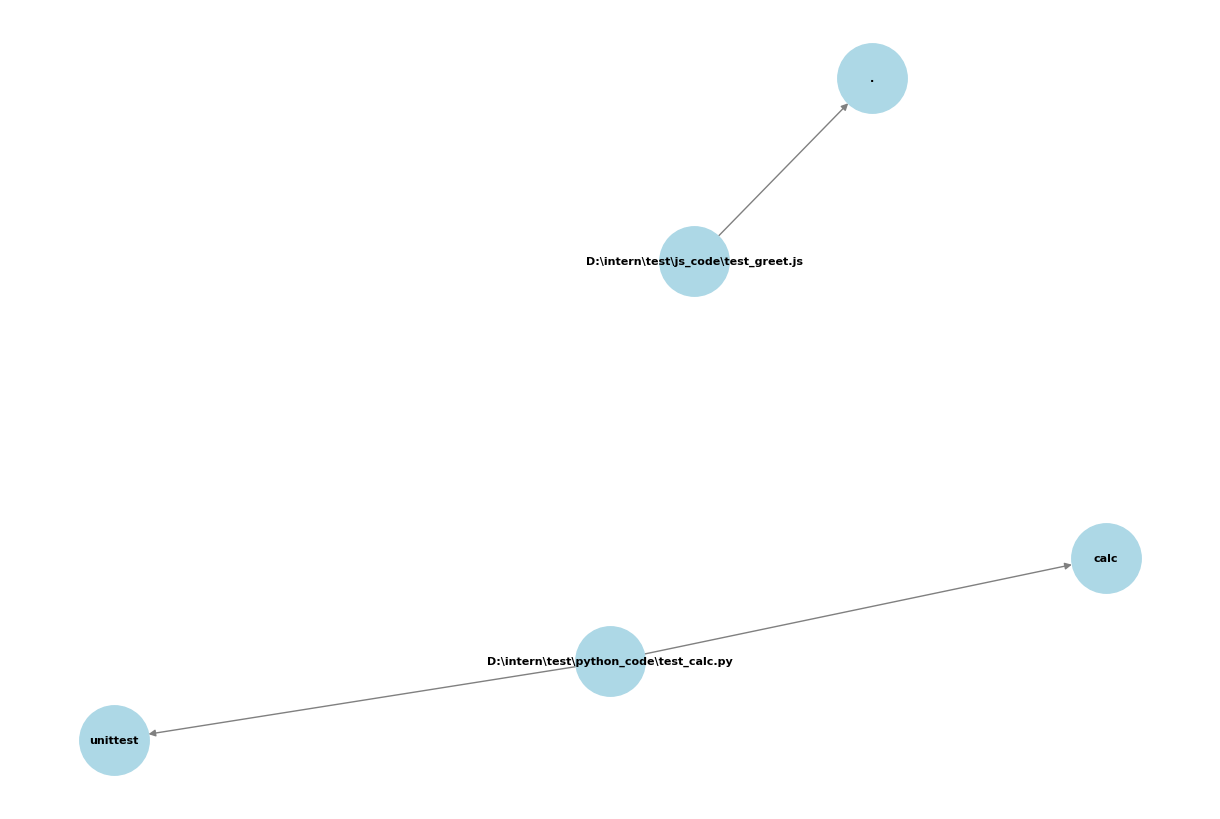
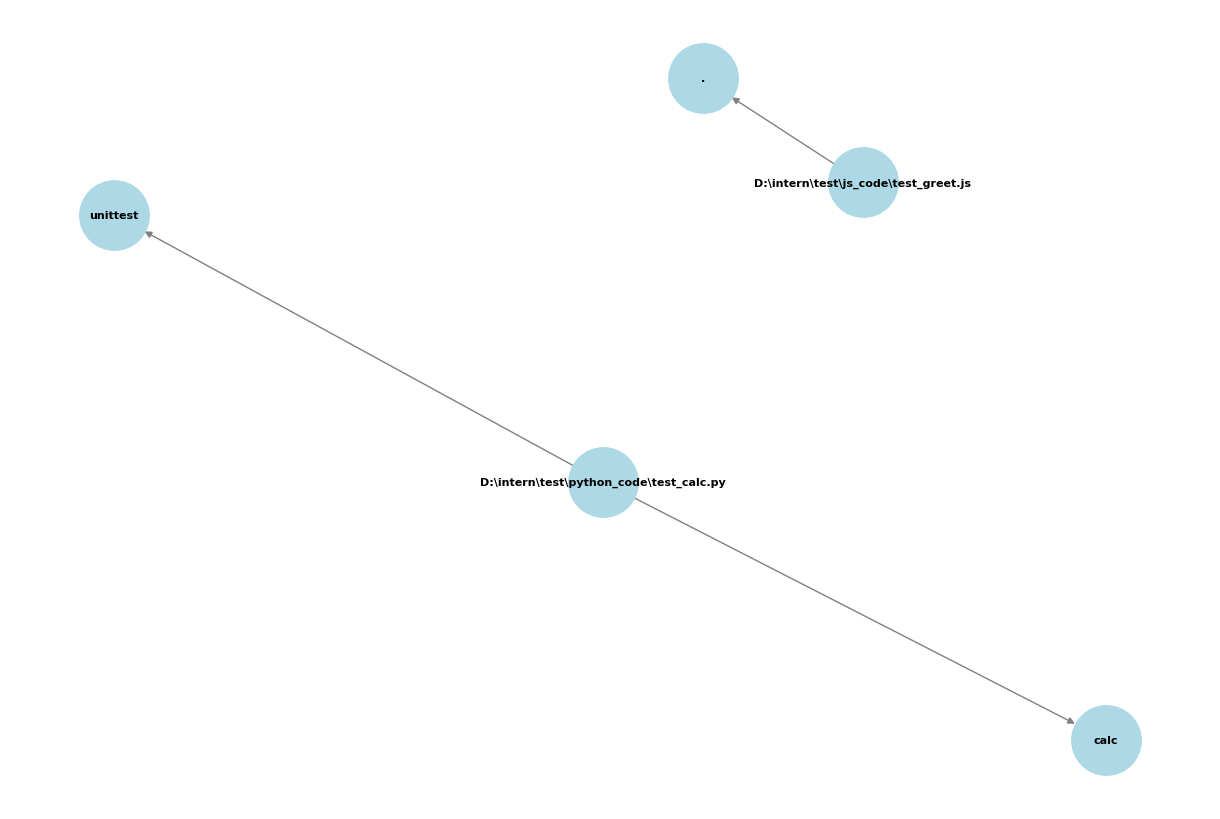
150 percent

diff --git a/src/chat.py b/src/chat.py
@@ -4,18 +4,35 @@ from langchain.text_splitter import RecursiveCharacterTextSplitter
 import chromadb
 import google.generativeai as genai
 from src.loader import load_codebase
+from rich.console import Console
 
-# Load API key
+# ---------------- Config ----------------
 load_dotenv()
 genai.configure(api_key=os.getenv("GEMINI_API_KEY"))
 
-# Embedding model (for vector DB)
+# Embedding & Generation models
 EMBED_MODEL = "models/text-embedding-004"
-
-# Generation model (latest Gemini)
 GENERATE_MODEL = "gemini-2.0-flash"
+console = Console()
 
+# ---------------- System Prompt ----------------
+SYSTEM_PROMPT = """
+You are CodeAssist, an AI code quality copilot.
+Your goals:
+- Be helpful, precise, and concise in your answers.
+- Attribute findings to specific files or functions.
+- When uncertain, admit uncertainty with "⚠ Not enough information in codebase."
+- Always explain reasoning step-by-step, but in plain text aligned to a terminal interface (no markdown formatting, no bold, no backticks).
+- Preserve developer trust: NEVER hallucinate files/functions that don’t exist in the given context.
+- Maintain a neutral, professional tone.
 
+Remember the spirit of Claude’s system prompt research:
+- Be transparent about what you know/don’t know.
+- Stay on-topic.
+- Avoid decorative output; clarity and accuracy matter most for developers in a terminal interface.
+"""
+
+# ---------------- Build Vector Store ----------------
 def build_vector_store(path: str):
     """Load repo, split into chunks, embed chunks, and store in Chroma."""
     code_files = load_codebase(path)
@@ -50,7 +67,7 @@ def build_vector_store(path: str):
 
     return collection
 
-
+# ---------------- Answer Query ----------------
 def answer_query(collection, query: str):
     """Embed query, retrieve context from Chroma, and get answer from Gemini."""
     query_embedding = genai.embed_content(model=EMBED_MODEL, content=query)["embedding"]
@@ -60,28 +77,54 @@ def answer_query(collection, query: str):
     if not results["documents"] or len(results["documents"][0]) == 0:
         return "⚠ Not enough information in codebase."
 
-    # ✅ Include file metadata in context
+    # Assemble context with file attribution
     context_parts = []
     for doc, meta in zip(results["documents"][0], results["metadatas"][0]):
         file = meta["file"]
         context_parts.append(f"File: {file}\n{doc}")
     context = "\n\n".join(context_parts)
 
-    model = genai.GenerativeModel(GENERATE_MODEL)
+    # Final composed prompt
     prompt = f"""
-    You are a helpful AI assistant analyzing a multi-file codebase.
+{SYSTEM_PROMPT}
 
-    Question: {query}
+User Question:
+{query}
 
-    Code Context (with file origins labeled):
-    {context}
+Relevant Code Context:
+{context}
 
-    Instructions:
-    - Always attribute details to the correct file(s).
-    - If multiple files show relevant info, explain the roles of each one.
-    - If no relevant info is found in context, reply: "⚠ Not enough information in codebase."
-    -Dont use backticks or bold formatting in your answer the reponse should align according to a terminal interface.
-    """
+Developer-facing Answer (plain text, no markdown):
+"""
 
+    model = genai.GenerativeModel(GENERATE_MODEL)
     response = model.generate_content(prompt)
     return response.text.strip()
+
+# ---------------- Interactive Chat Loop ----------------
+def start_chat(path: str):
+    """
+    Interactive chat session over codebase (RAG + meta commands).
+    Doesn't affect other CLI commands.
+    """
+    console.print(f"💬 Building RAG index for {path} ...", style="cyan")
+    collection = build_vector_store(path)
+    console.print("✅ Chat session ready. Ask questions or use commands (!analyze, !trend). Type 'exit' to quit.\n", style="green")
+
+    while True:
+        query = input("> ").strip()
+        if query.lower() in ["exit", "quit", "q"]:
+            console.print("👋 Exiting chat session.", style="yellow")
+            break
+
+        # Meta-commands: handled only in chat loop, won’t affect other endpoints
+        if query.startswith("!analyze"):
+            console.print("🔍 (Meta) You asked to run analyze/report. Run it separately via CLI if needed.", style="cyan")
+            continue
+        if query.startswith("!trend"):
+            console.print("📊 (Meta) You asked for trend analysis. Run 'python main.py trend' in CLI.", style="cyan")
+            continue
+        
+        # Default → natural Q&A
+        answer = answer_query(collection, query)
+        console.print(f"🤖 {answer}\n", style="white")

diff --git a/main.py b/main.py
@@ -1,6 +1,6 @@
 import typer
 from src.loader import load_codebase
-
+from src.trend import save_trend, print_trend
 from src.analyzer import analyze_file
 
 app = typer.Typer(help="AI Code Quality Intelligence Agent")
@@ -14,6 +14,26 @@ from src.reporter import summarize_report
 from src.reporter import summarize_report, summarize_report_with_graph
 # from rich.console import Console
 from src.chat import build_vector_store, answer_query
+app = typer.Typer(
+    help="""
+    🚀 AI Code Quality Intelligence Agent
+
+    Analyze code repositories, generate reports, track trends, and interact with 
+    your codebase using Retrieval-Augmented Generation (RAG).
+
+    Available commands:
+      • analyze   → Analyze a codebase and detect issues
+      • report    → Generate a summary report & dependency graph
+      • chat      → Interactive Q&A about the codebase
+      • trend     → Show code quality trend comparison
+
+    Example usage:
+      python main.py analyze ./src
+      python main.py report ./src
+      python main.py chat ./src
+      python main.py trend
+    """
+)
 
 @app.command()
 def chat(path: str):
@@ -49,9 +69,11 @@ def report(path: str):
     for file_path, content in code_files.items():
         issues = analyze_file(file_path, content[:2000])  # analyze quietly
         all_issues.extend(issues)
+    save_trend(all_issues)
 
     # ✅ Print just the summary
     summarize_report_with_graph(all_issues, path)
+    print_trend()
 
 @app.command()
 def analyze(path: str):
@@ -84,6 +106,14 @@ def analyze(path: str):
             table.add_row(issue.category, f"[{sev_color}]{issue.severity}[/{sev_color}]", issue.issue_summary, issue.suggested_fix)
 
         console.print(table)
+        save_trend(issues)
+
+@app.command()
+def trend():
+    """
+    Show issue trend comparison between the last two runs.
+    """
+    print_trend()
 
 
 if __name__ == "__main__":

diff --git a/src/trend.py b/src/trend.py
@@ -1,0 +1,51 @@
+import json
+from datetime import datetime
+from collections import Counter
+from pathlib import Path
+
+TRENDS_FILE = Path("trends.json")
+
+def save_trend(issues):
+    # Count severities
+    sev_counts = Counter([i.severity for i in issues])
+    record = {
+        "timestamp": datetime.now().strftime("%Y-%m-%d %H:%M"),
+        "High": sev_counts.get("High", 0),
+        "Medium": sev_counts.get("Medium", 0),
+        "Low": sev_counts.get("Low", 0)
+    }
+    # Append to trends file
+    trends = []
+    if TRENDS_FILE.exists():
+        with open(TRENDS_FILE, "r", encoding="utf-8") as f:
+            trends = json.load(f)
+    trends.append(record)
+    with open(TRENDS_FILE, "w", encoding="utf-8") as f:
+        json.dump(trends, f, indent=2)
+
+def load_last_two_trends():
+    if not TRENDS_FILE.exists():
+        return []
+    with open(TRENDS_FILE, "r", encoding="utf-8") as f:
+        trends = json.load(f)
+    return trends[-2:] if len(trends) >= 2 else trends
+
+def print_trend():
+    trends = load_last_two_trends()
+    if len(trends) < 2:
+        print("Not enough trend data to compare.")
+        return
+    prev, latest = trends[-2], trends[-1]
+    print("📊 Issue Trend Comparison")
+    print(f"Previous: {prev['timestamp']} → High={prev['High']}, Medium={prev['Medium']}, Low={prev['Low']}")
+    print(f"Latest:   {latest['timestamp']} → High={latest['High']}, Medium={latest['Medium']}, Low={latest['Low']}\n")
+    print("🔎 Severity Changes:")
+    for sev in ["High", "Medium", "Low"]:
+        diff = latest[sev] - prev[sev]
+        if diff == 0:
+            status = "no change"
+        elif diff < 0:
+            status = "improved"
+        else:
+            status = "more issues"
+        print(f"  {sev}: {diff:+d} ({status})")

diff --git a/api.py b/api.py
@@ -1,0 +1,46 @@
+
+from fastapi import FastAPI
+from src.loader import load_codebase
+from src.analyzer import analyze_file, Issue
+from src.reporter import summarize_report
+from src.chat import build_vector_store, answer_query
+from src.trend import save_trend, print_trend
+
+app = FastAPI(title="Code Quality Intelligence Agent API")
+
+@app.get("/")
+def root():
+    return {"message": "Welcome to the Code Quality Intelligence Agent API 🚀"}
+
+@app.post("/analyze")
+def analyze(path: str):
+    files = load_codebase(path)
+    all_issues = []
+    all_issues_dict = []
+    for file_path, content in files.items():
+        issues = analyze_file(file_path, content[:2000])
+        all_issues.extend(issues)
+        all_issues_dict.extend([issue.__dict__ for issue in issues])
+    save_trend(all_issues)
+    return {"issues": all_issues_dict}
+
+@app.post("/report")
+def report(path: str):
+    files = load_codebase(path)
+    all_issues = []
+    for file_path, content in files.items():
+        issues = analyze_file(file_path, content[:2000])
+        all_issues.extend(issues)
+    save_trend(all_issues)
+    # summarize_report prints to console, so you may want to adapt it to return a string or dict
+    return {"total_issues": len(all_issues)}
+
+@app.post("/chat")
+def chat(path: str, query: str):
+    vs = build_vector_store(path)
+    return {"answer": answer_query(vs, query)}
+
+@app.get("/trend")
+def trend():
+    print_trend()
+    return {"trend": "Trend printed to console."}
